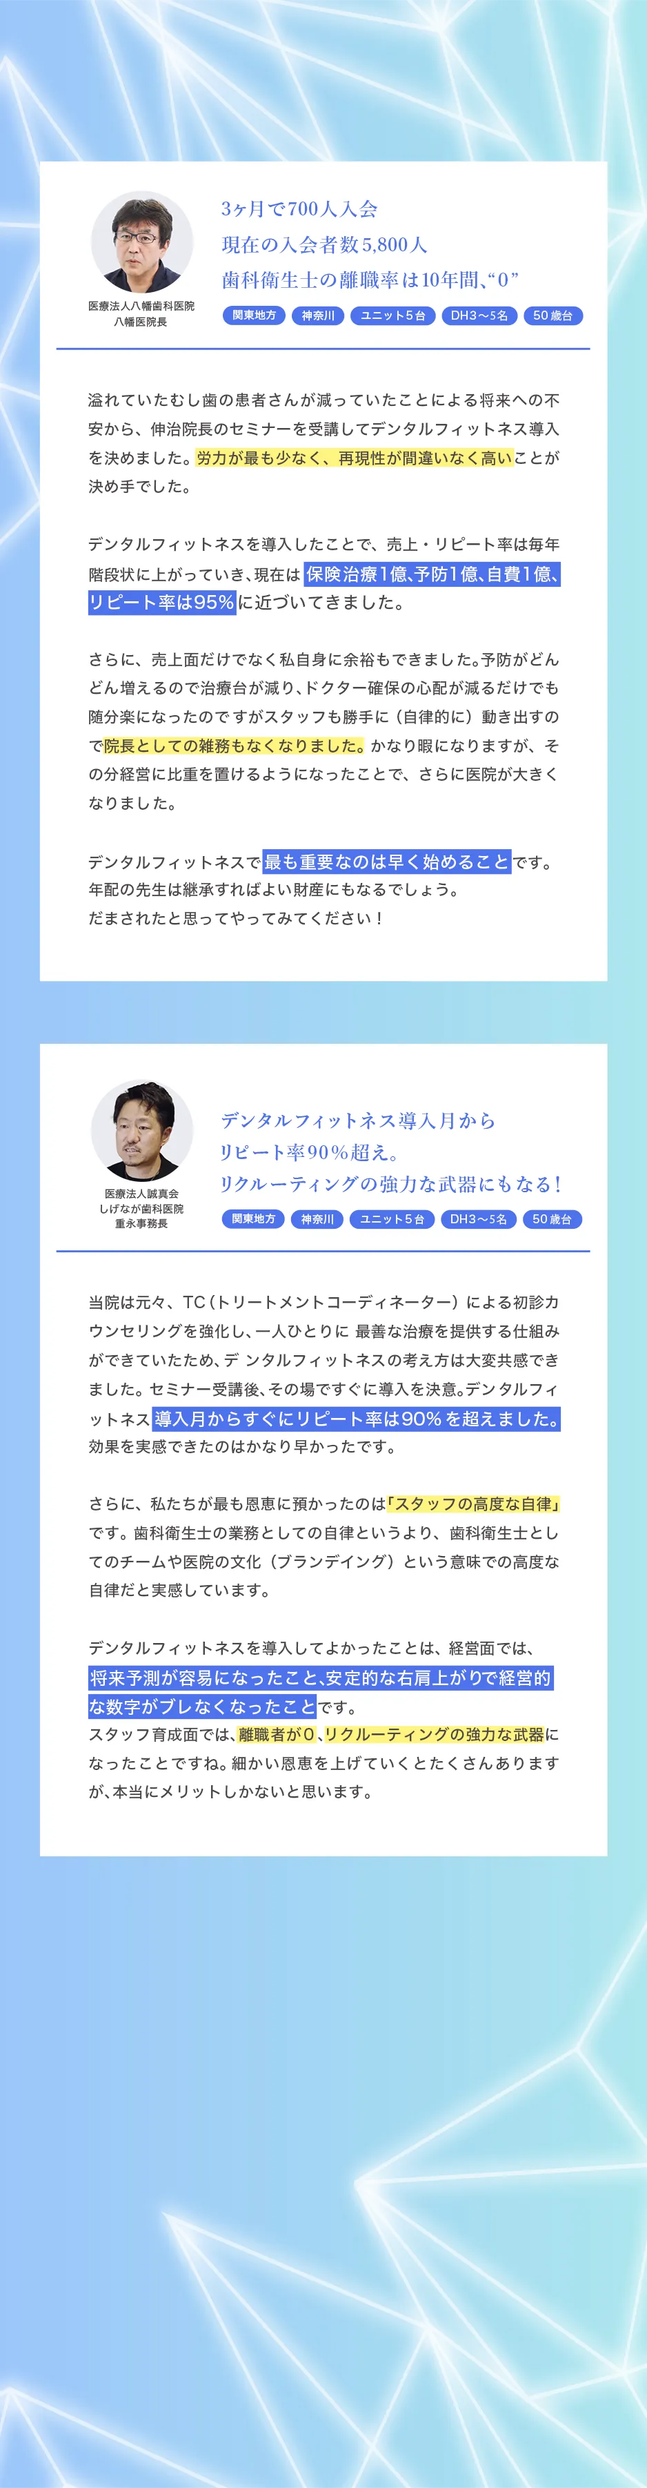
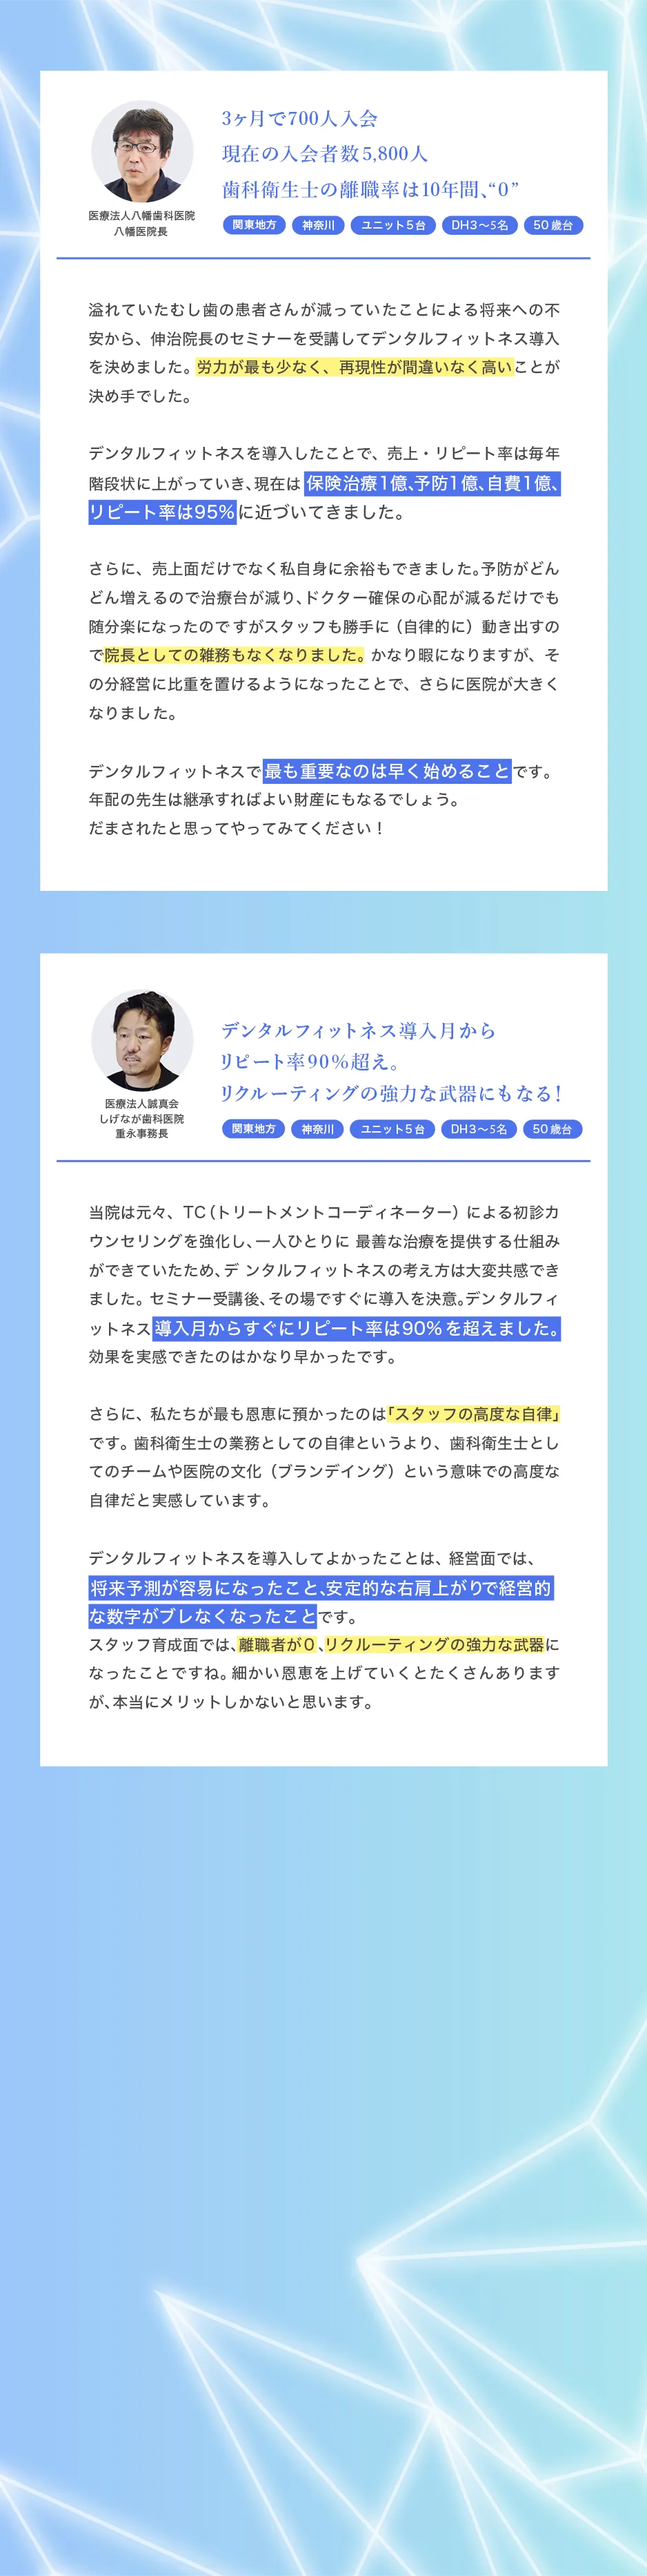
change

diff --git a/seminar202502_1/common/css/style.css b/seminar202502_1/common/css/style.css
@@ -271,7 +271,7 @@ header .cta_head_bt img {
 
 @media screen and (max-width: 767px) {
   .pic {
-    max-width: 100%;
+    max-width: 634px;
   }
   .pic-line {
     margin-top: 24px;
@@ -455,7 +455,7 @@ header .cta_head_bt img {
     font-size: 4.2666666667vw;
   }
   .pic06-body {
-    padding: 86px 25px 40px;
+    padding: 40px 20px;
   }
   .pic06-body > .pic {
     max-width: 626px;
@@ -469,7 +469,7 @@ header .cta_head_bt img {
 
 @media screen and (max-width: 767px) {
   .pic07-body {
-    padding: 98px 30px 98px;
+    padding: 40px 20px;
   }
 }
 .pic08 {
@@ -482,8 +482,8 @@ header .cta_head_bt img {
 
 @media screen and (max-width: 767px) {
   .pic08 {
-    background: none;
-    padding: 0 30px;
+    background-image: url(../img/bg-3.webp);
+    padding: 15px 20px 60px;
   }
 }
 .pic09 {
@@ -545,27 +545,21 @@ header .cta_head_bt img {
 }
 
 @media screen and (max-width: 767px) {
+  .pic10-ctas {
+    position: absolute;
+    left: 50%;
+    -webkit-transform: translateX(-50%);
+            transform: translateX(-50%);
+    bottom: 2.6809651475%;
+    width: 100%;
+  }
   .pic10-cta {
     margin-top: 0;
     width: 100%;
-    max-width: 100%;
     margin-left: 0;
-    position: absolute !important;
-    left: 50%;
-    -webkit-transform: translateX(-50%);
-            transform: translateX(-50%);
-    bottom: 2.7491408935%;
   }
   .pic10-line {
-    margin-top: 0;
     width: 100%;
-    max-width: 100%;
-    margin-left: 0;
-    position: absolute !important;
-    left: 50%;
-    -webkit-transform: translateX(-50%);
-            transform: translateX(-50%);
-    bottom: 0.6872852234%;
   }
   .pic10-body {
     padding: 0;

diff --git a/seminar202502_1/index.html b/seminar202502_1/index.html
@@ -182,15 +182,17 @@
             </div>
 						<div class="pic10-body">
 							<p class="pic"><img src="common/img/pic-10-PC.webp" class="pc"><img src="common/img/pic-10.webp" class="sp"></p>
-	
-							<div class="pic10-cta cta">
-								<div class="pic cta_pic">
-									<img src="common/img/CTA-PC.webp" class="pc"><img src="common/img/CTA.webp" class="sp">
-									<p class="bnt cta_btn"><a href="https://dental-fitness.jp/p/r/6KeouTyv?ref=hp" class="paramLink" target="_blank"><img src="common/img/bnt-PC.webp" class="pc obFit"><img src="common/img/bnt.webp" class="sp obFit"></a></p>
+							
+							<div class="pic10-ctas">
+								<div class="pic10-cta cta">
+									<div class="pic cta_pic">
+										<img src="common/img/CTA-PC.webp" class="pc"><img src="common/img/CTA.webp" class="sp">
+										<p class="bnt cta_btn"><a href="https://dental-fitness.jp/p/r/6KeouTyv?ref=hp" class="paramLink" target="_blank"><img src="common/img/bnt-PC.webp" class="pc obFit"><img src="common/img/bnt.webp" class="sp obFit"></a></p>
+									</div>
 								</div>
+	
+								<p class="pic pic-line"><a href="#line"><img src="common/img/line-banner-PC.webp" class="pc"><img src="common/img/line-banner-PC.webp" class="sp"></a></p>
 							</div>
-
-							<p class="pic pic-line"><a href="#line"><img src="common/img/line-banner-PC.webp" class="pc"><img src="common/img/line-banner-PC.webp" class="sp"></a></p>
 						</div>
 					</div>
 

diff --git a/seminar202502_1/common/scss/page/_main.scss b/seminar202502_1/common/scss/page/_main.scss
@@ -142,7 +142,7 @@
         font-size: calc(16 / 375 * 100vw);
     }
     .pic06-body {
-        padding: 86px 25px 40px;
+        padding: 40px 20px;
     }
     .pic06-body > .pic {
         max-width: 626px;
@@ -157,7 +157,7 @@
 }
 @include mq(md) {
     .pic07-body {
-        padding: 98px 30px 98px;
+        padding: 40px 20px;
     }
 }
 // pic08
@@ -170,8 +170,8 @@
 }
 @include mq(md) {
     .pic08 {
-        background: none;
-        padding: 0 30px;
+        background-image: url(../img/bg-3.webp);
+        padding: 15px 20px 60px;
     }
     
 }
@@ -229,25 +229,20 @@
     margin-top: 24px;
 }
 @include mq(md) {
+    .pic10-ctas {
+        position: absolute;
+        left: 50%;
+        transform: translateX(-50%);
+        bottom: calc(80 / 2984 * 100%);
+        width: 100%;
+    }
     .pic10-cta {
         margin-top: 0;
         width: 100%;
-        max-width: 100%;
         margin-left: 0;
-        position: absolute !important;
-        left: 50%;
-        transform: translateX(-50%);
-        bottom: calc(80 / 2910 * 100%);
     }
     .pic10-line {
-        margin-top: 0;
         width: 100%;
-        max-width: 100%;
-        margin-left: 0;
-        position: absolute !important;
-        left: 50%;
-        transform: translateX(-50%);
-        bottom: calc(20 / 2910 * 100%);
     }
     .pic10-body {
         padding: 0;

diff --git a/seminar202502_1/common/scss/page/_common.scss b/seminar202502_1/common/scss/page/_common.scss
@@ -83,7 +83,7 @@ header .cta_head_bt img{
 }
 @media screen and (max-width:767px) {
   .pic {
-    max-width: 100%;
+    max-width: 634px;
   }
   .pic-line {
     margin-top: 24px;
